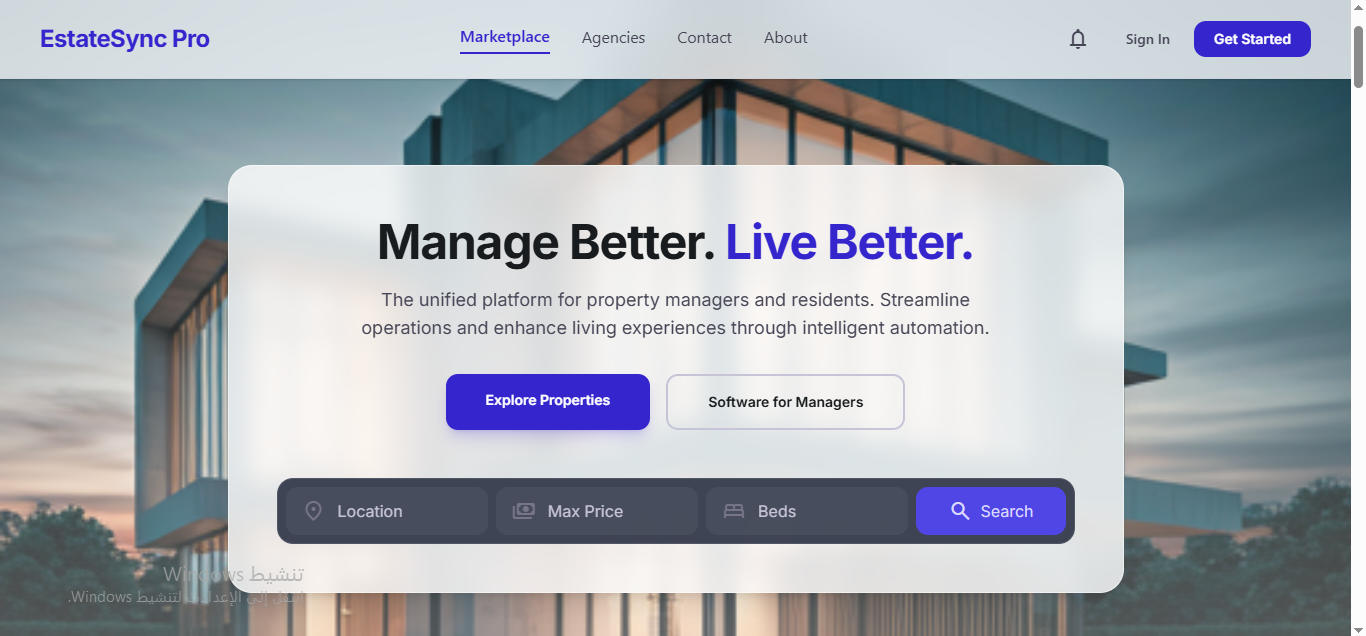
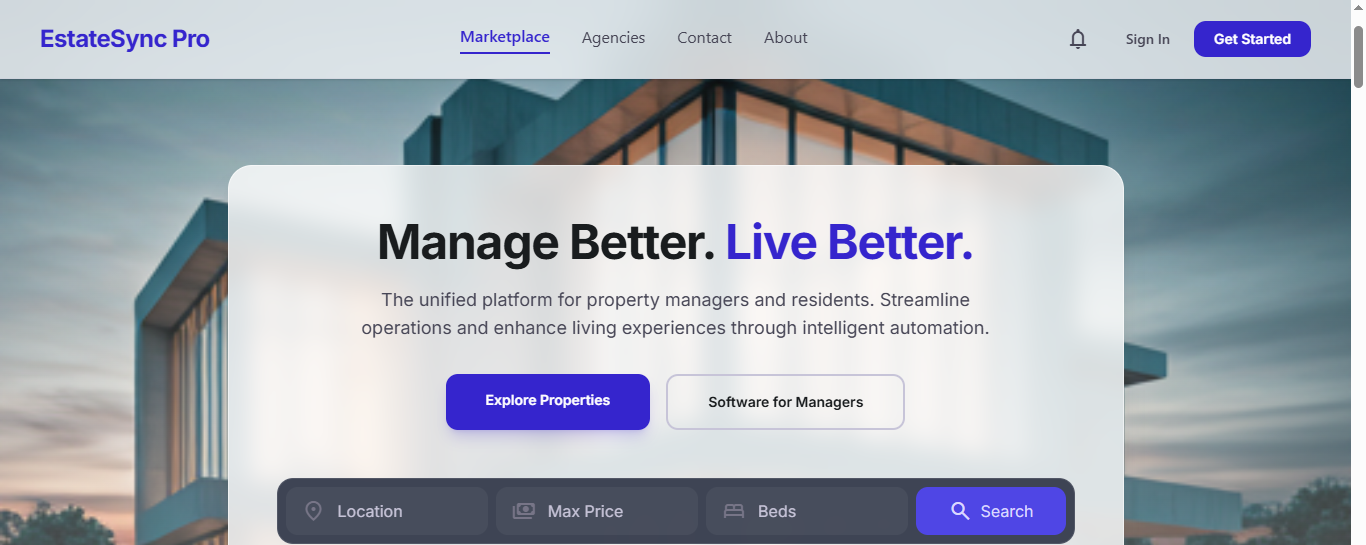
Show real work sooner and lead case studies with screens
- Hero: replace the scrolling stack marquee with a strip of three real
  project screens, visible in the first viewport (swipe row on phones);
  tighten hero spacing so it fits
- HealthyLife case study: open with a large dashboard screen next to the
  intro, before the problem/built/outcome text
- Work ribbon: shorten its scroll track (420vh to 280vh) so the projects
  arrive about 1,100px sooner
- Replace the three project screenshots with crops that remove the
  "Activate Windows" watermark

Claude-Session: https://claude.ai/code/session_019CgFsUezH8NoKFL2DeYvsG

diff --git a/app/components/PortfolioPage.tsx b/app/components/PortfolioPage.tsx
@@ -108,7 +108,7 @@ export default function PortfolioPage({ lang }: { lang: Lang }) {
               maxDevicePixelRatio={1.5}
             />
           </div>
-          <div className="mx-auto max-w-6xl px-5 pb-16 pt-14 md:px-8 md:pb-24 md:pt-20">
+          <div className="mx-auto max-w-6xl px-5 pb-10 pt-10 md:px-8 md:pb-12 md:pt-12">
             <div className="grid items-center gap-14 md:grid-cols-[1fr_auto] md:gap-20">
               <div className="max-w-3xl">
                 <p className="reveal mb-6 inline-flex items-center gap-2 rounded-full border border-line bg-surface px-3 py-1 text-sm font-medium text-muted">
@@ -159,7 +159,7 @@ export default function PortfolioPage({ lang }: { lang: Lang }) {
                     {t.hero.seeWork}
                   </a>
                 </div>
-                <ul style={{ animationDelay: "360ms" }} className="reveal mt-10 grid max-w-xl grid-cols-3 gap-3">
+                <ul style={{ animationDelay: "360ms" }} className="reveal mt-8 grid max-w-xl grid-cols-3 gap-3">
                   {t.hero.stats.map((s) => {
                     const body = (
                       <>
@@ -223,13 +223,27 @@ export default function PortfolioPage({ lang }: { lang: Lang }) {
             </div>
           </div>
 
-          <div className="marquee border-t border-line/70" dir="ltr" aria-label={t.hero.stackLabel}>
-            <ul className="marquee-row">
-              {[...heroStack, ...heroStack].map((item, i) => (
-                <li key={i} aria-hidden={i >= heroStack.length || undefined}>
-                  {item}
-                </li>
-              ))}
+          <div className="mx-auto max-w-6xl px-5 pb-14 md:px-8 md:pb-20">
+            <ul className="work-peek-row -mx-5 flex snap-x snap-mandatory gap-4 overflow-x-auto px-5 sm:mx-0 sm:grid sm:grid-cols-3 sm:overflow-visible sm:px-0" aria-label={t.work.title}>
+              {[0, 1, 3].map((n) => {
+                const item = t.ribbon.items[n];
+                return (
+                  <li key={item.href + n} className="w-[78%] shrink-0 snap-start sm:w-auto">
+                    <a href={item.href} className="work-peek group block">
+                      <span className="relative block aspect-[2/1] overflow-hidden rounded-2xl border border-line bg-surface shadow-[0_18px_40px_-24px_rgba(18,33,29,0.5)]">
+                        <Image
+                          src={item.image}
+                          alt=""
+                          fill
+                          sizes="(min-width: 1152px) 360px, (min-width: 640px) 31vw, 100vw"
+                          className="object-cover object-top transition-transform duration-500 group-hover:scale-[1.03]"
+                        />
+                      </span>
+                      <span className="mt-3 block text-sm font-semibold text-ink group-hover:text-accent">{item.title}</span>
+                    </a>
+                  </li>
+                );
+              })}
             </ul>
           </div>
         </section>
@@ -242,12 +256,27 @@ export default function PortfolioPage({ lang }: { lang: Lang }) {
             <SectionHeading id="work" index="01" title={t.work.title} note={t.work.note} />
 
             <article id="project-healthylife" data-reveal className="panel-dark rounded-3xl p-7 text-white md:p-12">
-              <div className="grid gap-10 md:grid-cols-[1.4fr_1fr]">
+              <div className="mb-12 grid items-center gap-10 md:grid-cols-[1fr_1.35fr]">
                 <div>
                   <p className="text-sm font-semibold text-sun">{hl.eyebrow}</p>
-                  <h3 className="mt-2 font-display text-3xl font-bold tracking-tight md:text-4xl">HealthyLife AI</h3>
+                  <h3 className="mt-2 font-display text-3xl font-bold tracking-tight md:text-5xl">HealthyLife AI</h3>
                   <p className="mt-4 text-lg leading-relaxed text-white/80">{hl.text}</p>
-                  <div className="mt-6 rounded-2xl border border-white/10 bg-white/[0.04] p-5">
+                </div>
+                <BrowserFrame label={hl.showcase.frame} tone="dark">
+                  <div className="relative aspect-[2/1] overflow-hidden">
+                    <Image
+                      src="/images/hl-dashboard.webp"
+                      alt={t.work.shotAlt("HealthyLife AI")}
+                      fill
+                      sizes="(min-width: 1152px) 620px, (min-width: 768px) 55vw, 100vw"
+                      className="object-cover object-top"
+                    />
+                  </div>
+                </BrowserFrame>
+              </div>
+              <div className="grid gap-10 md:grid-cols-[1.4fr_1fr]">
+                <div>
+                  <div className="rounded-2xl border border-white/10 bg-white/[0.04] p-5">
                     <p className="text-sm font-semibold text-sun">{hl.problemLabel}</p>
                     <p className="mt-2 leading-relaxed text-white/85">{hl.problem}</p>
                   </div>

diff --git a/app/components/WorkRibbon.tsx b/app/components/WorkRibbon.tsx
@@ -392,7 +392,7 @@ export default function WorkRibbon({ text }: { text: Ribbon }) {
   return (
     <section aria-label={text.label} className="ribbon bg-night text-snow">
       {/* Scroll scene */}
-      <div ref={trackRef} className="ribbon-track h-[420vh] motion-reduce:hidden">
+      <div ref={trackRef} className="ribbon-track h-[280vh] motion-reduce:hidden">
         <div ref={stageRef} className="sticky top-0 h-svh overflow-hidden">
           <div
             aria-hidden="true"

diff --git a/app/globals.css b/app/globals.css
@@ -1083,3 +1083,11 @@ html[data-theme="dark"] body::after { opacity: 0.07; }
     display: none;
   }
 }
+
+/* Hero strip of real project screens: swipe row on phones, grid from sm up */
+.work-peek-row {
+  scrollbar-width: none;
+}
+.work-peek-row::-webkit-scrollbar {
+  display: none;
+}
